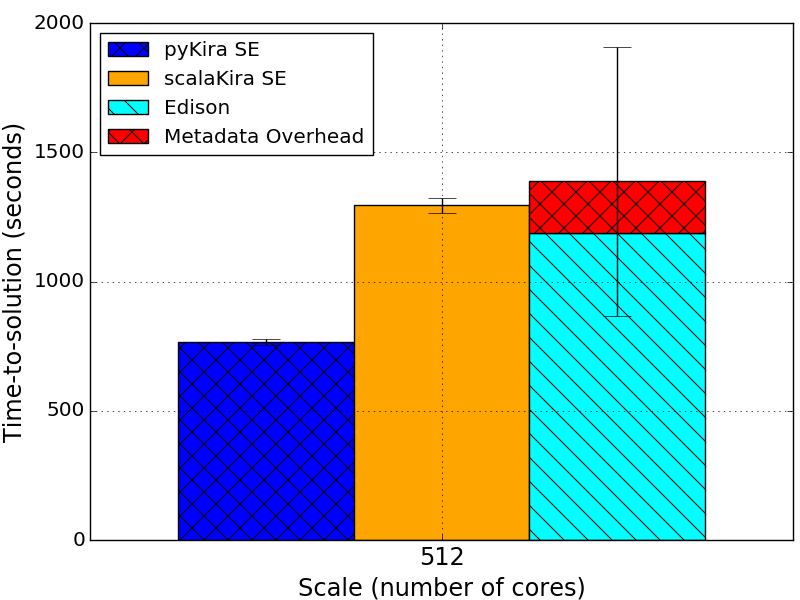
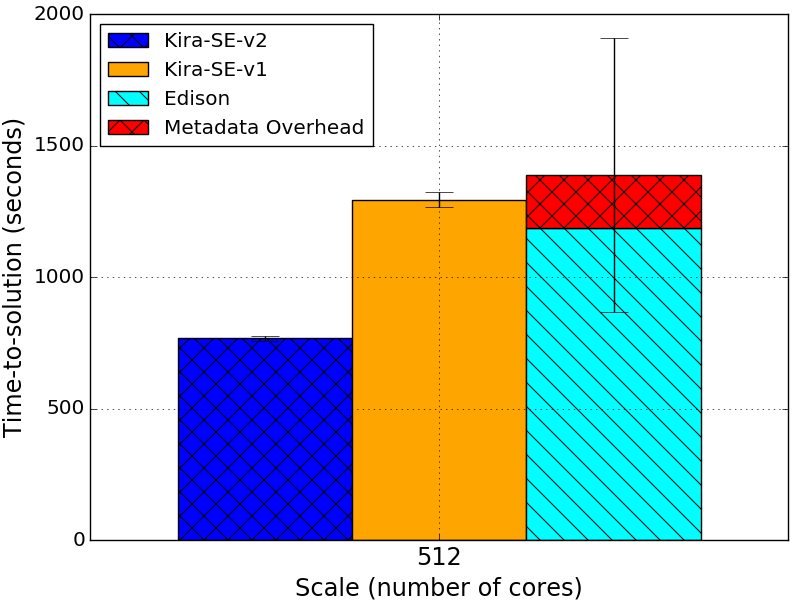
update all figures

Changed region(s): [[0.0, 0.0, 1.0, 0.9], [0.375, 0.9, 0.75, 1.0], [0.0625, 0.66, 0.125, 0.69]]

diff --git a/pictures/allgluster.py b/pictures/allgluster.py
@@ -42,7 +42,7 @@ ax.set_ylabel('Time-to-solution (seconds)', size='x-large')
 ax.set_xticks(ind+width*2.5)
 ax.set_xticklabels( ('128', '256'), size='x-large') 
 plt.yticks(size='large')
-ax.legend( (rects0[0], rects1[0], rects2[0], rects4[0], rects6[0], rects8[0], rects3[0]), ('pyKira SE', 'scalaKira SE', 'Distributed (no resilience)', 'Replicated', 'Striped (no resilience)', 'Striped Replicated', 'Metadata Overhead') )
+ax.legend( (rects0[0], rects1[0], rects2[0], rects4[0], rects6[0], rects8[0], rects3[0]), ('Kira-SE-v2', 'Kira-SE-v1', 'Distributed (no resilience)', 'Replicated', 'Striped (no resilience)', 'Striped Replicated', 'Metadata Overhead') )
 
 plt.show()
 

diff --git a/pictures/1TB-EC2.py b/pictures/1TB-EC2.py
@@ -39,7 +39,7 @@ ax.set_ylabel('Time-to-solution (seconds)', size='x-large')
 ax.set_xticks(ind+width*2)
 ax.set_xticklabels( ('256', '512'), size='x-large') 
 plt.yticks(size='large')
-ax.legend( (rects0[0], rects1[0], rects2[0], rects4[0], rects3[0]), ('pyKira SE', 'scalaKira SE', 'Distributed (no resilience)', 'Replicated', 'Metadata Overhead') )
+ax.legend( (rects0[0], rects1[0], rects2[0], rects4[0], rects3[0]), ('Kira-SE-v2', 'Kira-SE-v1', 'Distributed (no resilience)', 'Replicated', 'Metadata Overhead') )
 
 plt.show()
 

diff --git a/pictures/scaleup.py b/pictures/scaleup.py
@@ -37,7 +37,7 @@ ax_c.set_ylabel('Relative Performance Compared to C', size='x-large')
 ax.set_xticks(ind+width)
 ax.set_xticklabels( ('1 core', '2 cores', '4 cores', '8 cores'), size='x-large') 
 
-ax.legend( (rects1[0], rects2[0], rects3[0], rects4[0], rects5[0]), ('pyKira SE', 'scalaKira SE', 'C', 'pyKira SE Relative', 'scalaKira SE Relative') )
+ax.legend( (rects1[0], rects2[0], rects3[0], rects4[0], rects5[0]), ('Kira-SE-v2', 'Kira-SE-v1', 'C', 'pyKira SE Relative', 'scalaKira SE Relative') )
 
 plt.show()
 

diff --git a/pictures/1TB-edison.py b/pictures/1TB-edison.py
@@ -33,7 +33,7 @@ ax.set_ylabel('Time-to-solution (seconds)', size='x-large')
 ax.set_xticks(ind+width*1.5)
 ax.set_xticklabels( ('512', ''), size='x-large') 
 plt.yticks(size='large')
-ax.legend((rects1[0], rects2[0], rects3[0], rects4[0]), ('pyKira SE', 'scalaKira SE', 'Edison', 'Metadata Overhead'),loc='best')
+ax.legend((rects1[0], rects2[0], rects3[0], rects4[0]), ('Kira-SE-v2', 'Kira-SE-v1', 'Edison', 'Metadata Overhead'),loc='best')
 
 plt.show()
 

diff --git a/pictures/scaleout.py b/pictures/scaleout.py
@@ -26,7 +26,7 @@ ax.set_ylabel('Time-to-solution (seconds in log scale)', size='x-large')
 ax.set_xticks(ind+width)
 ax.set_xticklabels( ('8', '32', '64', '128', '256', '512'), size='x-large') 
 plt.yticks(size='large')
-ax.legend( (rects2[0], rects1[0], rects3[0]), ('pyKira SE', 'scalaKira SE', 'C') )
+ax.legend( (rects2[0], rects1[0], rects3[0]), ('Kira-SE-v2', 'Kira-SE-v1', 'C') )
 
 plt.show()
 

diff --git a/pictures/ssd-65GB.py b/pictures/ssd-65GB.py
@@ -25,7 +25,7 @@ ax.set_ylabel('Time-to-solution (seconds in log scale)', size='x-large')
 ax.set_xticks(ind+width)
 ax.set_xticklabels( ('32', '64', '128', '256', '512'), size='x-large') 
 plt.yticks(size='large')
-ax.legend( (rects1[0], rects2[0]), ('pyKira SE on SDD', 'pyKira SE on HDD') )
+ax.legend( (rects1[0], rects2[0]), ('Kira-SE-v2 on SDD', 'Kira-SE-v2 on HDD') )
 
 plt.show()
 

diff --git a/pictures/locality.py b/pictures/locality.py
@@ -26,7 +26,7 @@ ax.set_ylabel('Locality hit ratio (percentage)', size='x-large')
 ax.set_xticks(ind+width)
 ax.set_xticklabels( ('8', '32', '64', '128', '256', '512'), size='x-large') 
 plt.yticks((0, 20, 40, 60, 80, 100), size='large')
-ax.legend( (rects1[0], rects2[0]), ('pyKira SE', 'C Estimated') )
+ax.legend( (rects1[0], rects2[0]), ('Kira-SE-v2', 'C Estimated') )
 
 plt.show()
 
